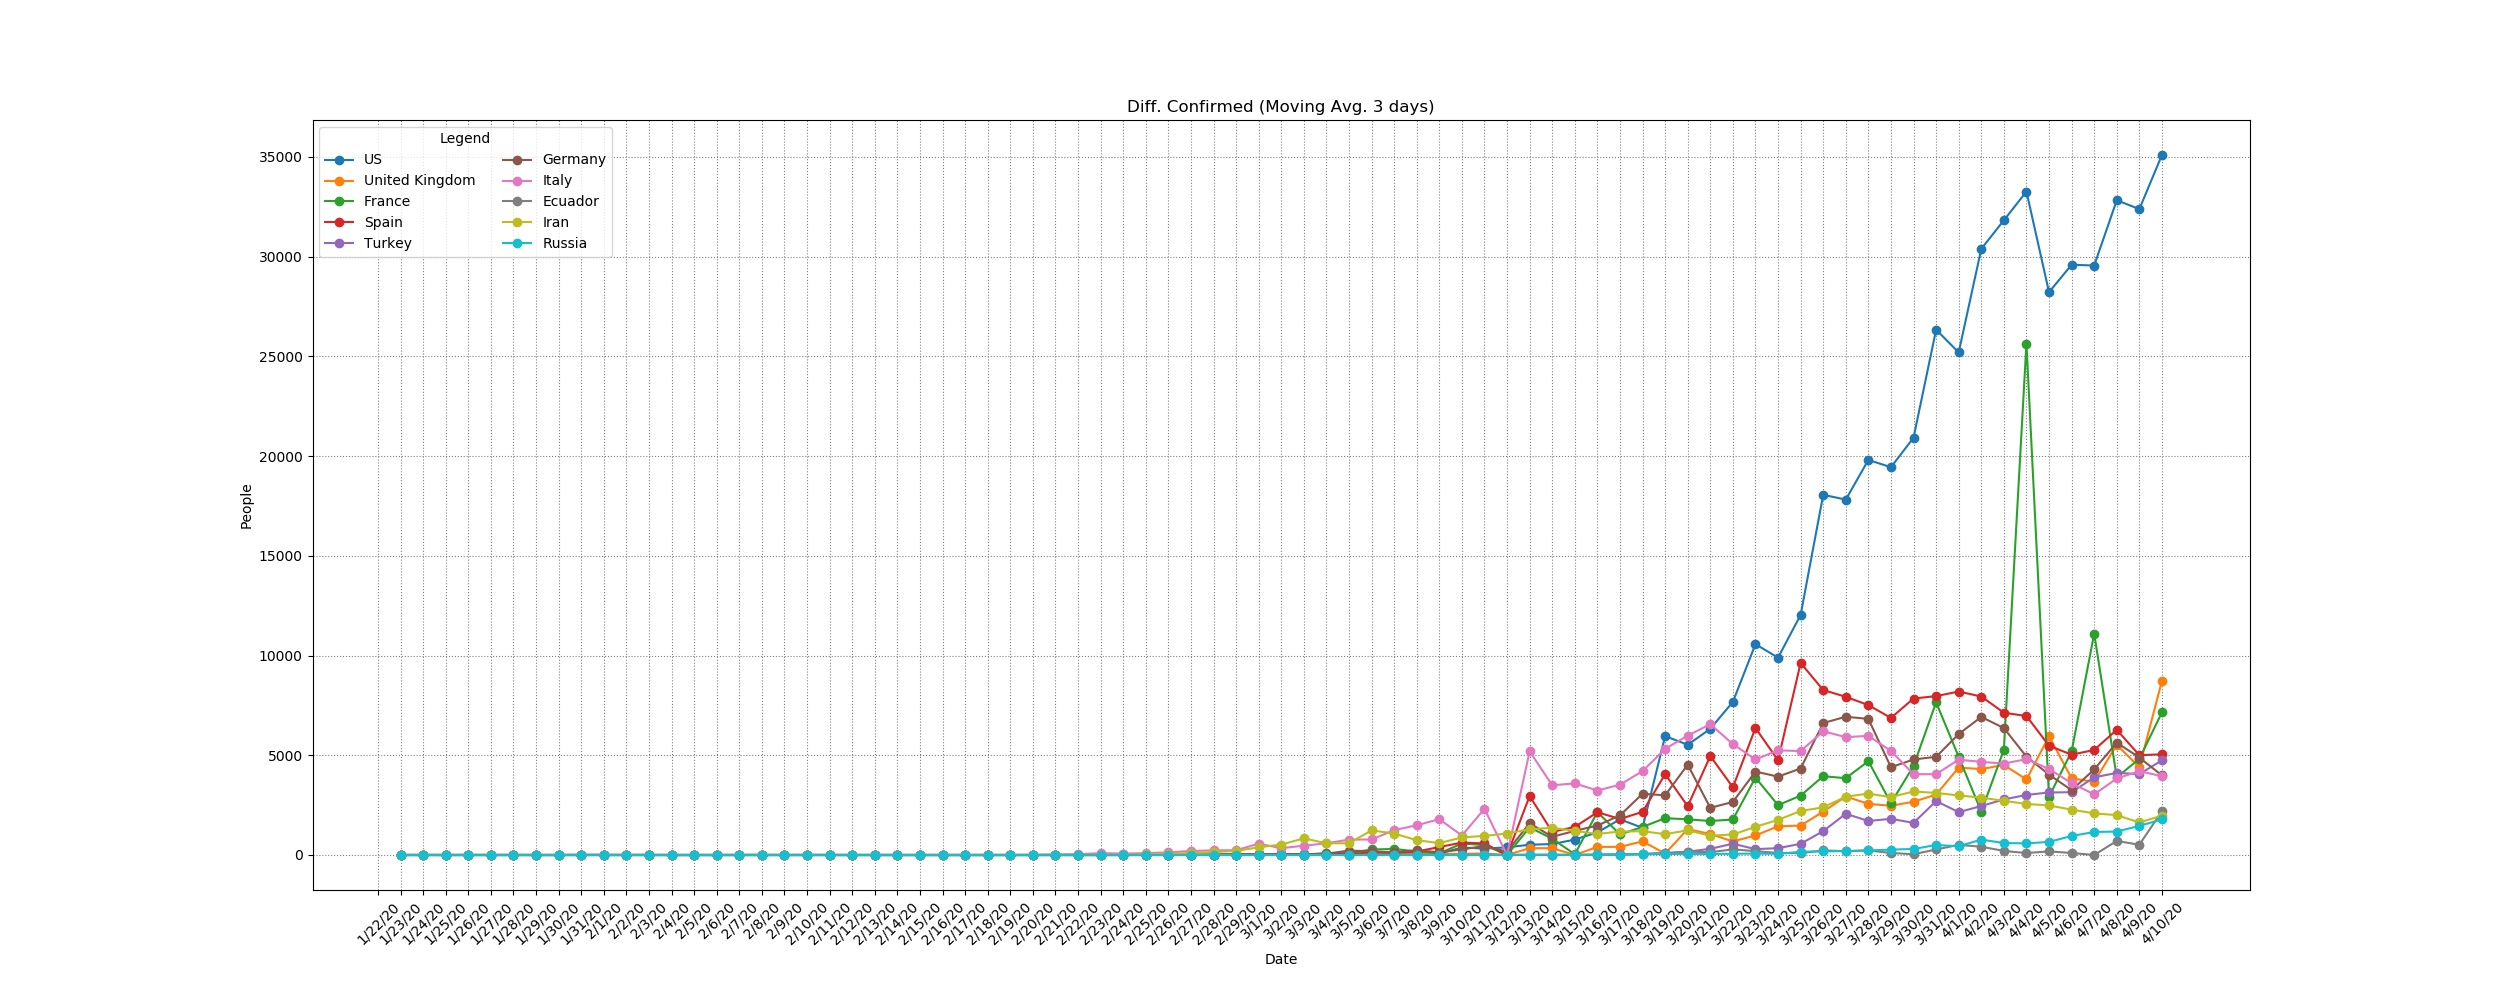
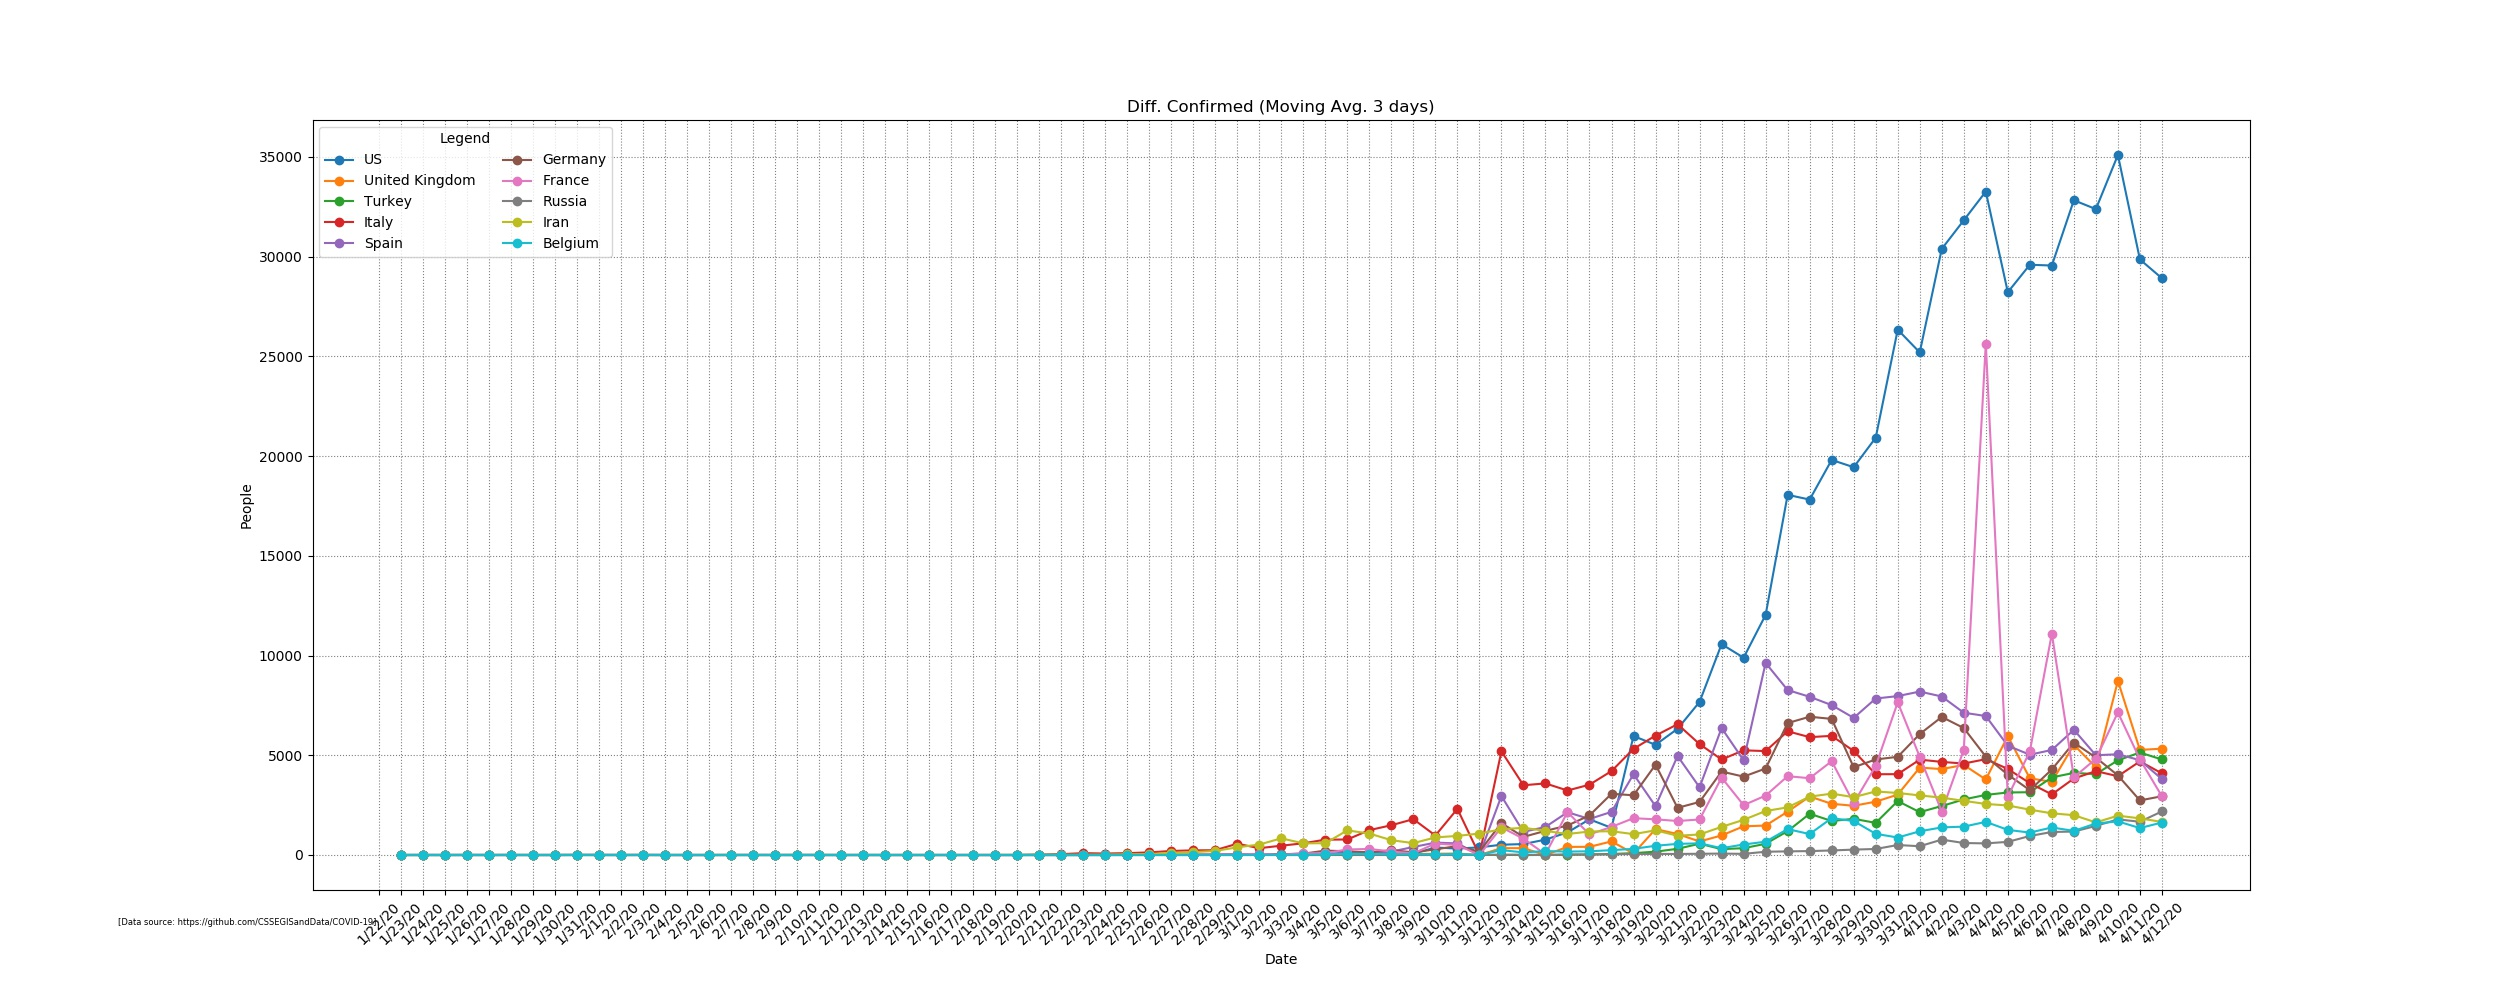
UPD: 13/04/2020 and added data source

diff --git a/main.py b/main.py
@@ -61,6 +61,8 @@ def plot(df, regions, xlabel, ylabel, title, x_size=25, y_size=10, log_scale='of
         plt.yscale("log")
     plt.legend(loc="upper left", ncol=2, title="Legend", fancybox=True)
     pic_name = title+".jpg"
+    plt.annotate('[Data source: https://github.com/CSSEGISandData/COVID-19]', (0, 0), (-140, -20), fontsize=6,
+                 xycoords='axes fraction', textcoords='offset points', va='top')
     plt.savefig(pic_name)
     plt.show()
 
@@ -86,18 +88,9 @@ df = [df_confirmed, df_death, df_recovered]
 for i in range(len(title)):
     plot(df[i], top_countries_confirmed, x_label[i], y_label[i], title[i])
 
-
-
-
-
-
 # Plots of diff and div on top countries
 df_diff_confirmed, df_div_confirmed = diff_div(df_confirmed)
 top_countries_diff_confirmed = find_highest(df_diff_confirmed)
-
-
-
-
 
 # Plot of top countries
 title = ["Diff. Confirmed", "Div. Confirmed"]
@@ -223,3 +216,18 @@ df_per_mil.columns = ['EU', 'US']
 
 plot(df_per_mil, ['EU', 'US'], xlabel='Dates', ylabel='Positives per milion people', title='EU vs. US positives per milion people')
 
+# in dev
+def linear_regression(df):
+    from sklearn.linear_model import LinearRegression
+    x = np.array(range(66,len(df)+66)).reshape(-1,1)
+    y = np.array(pd.Series(df)).reshape(-1,1)
+    model = LinearRegression().fit(x, y)
+    r_sq = model.score(x, y)
+    x_pred_y0 = - model.intercept_ / model.coef_ - (x[-1] - x[0])
+    x_pred = pd.Series(np.array(range(66, int(x_pred_y0) + 66)))
+    y_pred = int(model.coef_) * x_pred + int(model.intercept_)
+    return x_pred, y_pred, x_pred_y0
+
+df = df_confirmed.Belgium.diff()[66:]
+np.array(df_confirmed.Belgium[66:])
+x_pred, y_pred, x_pred_y0 = linear_regression(df)
